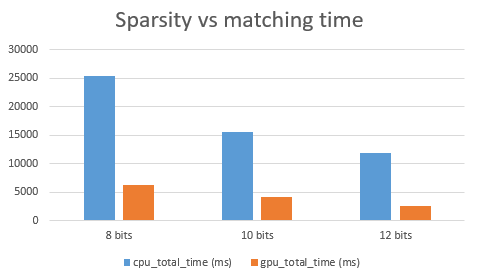
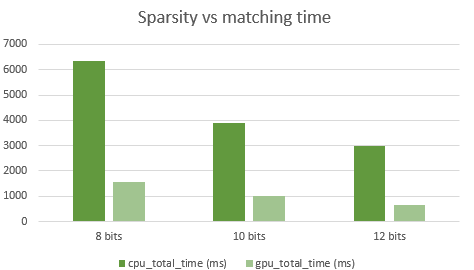
opt

diff --git a/README.md b/README.md
@@ -4,7 +4,7 @@
 	* https://github.com/dengxianga/dengxianga.github.io
 
 (Date: 12/15/2016)
-Updated: 12/18/2016
+Updated: 12/19/2016
 
 # Background
 
@@ -75,7 +75,8 @@ The following are the testing results (dataset: qinghuaxuetang):
 
 * Sparsity of data structure (number of hash bits) vs. total time consumed vs. speed up  
 
-	* Testing on three implementations: original algorithm on CPU, GPU, and slightly improved GPU version that borrows some ideas mentioned in my new draft of paper (not submitted yet).
+	* Testing on three implementations: original algorithm on CPU, GPU, and slightly improved GPU version that aims to enhance the likelihood of finding the 
+true match in the candidate list; such minor improvement borrows some ideas mentioned in my new draft of paper (not submitted yet).
 
 8 bits, 6 tables t| 8 bits, 6 tables
 :-------------------------:  |:-------------------------: 
@@ -138,6 +139,17 @@ Increased sparsity vs. time (three implementations) | Increased sparsity vs incr
 Increased sparsity vs. time (three implementations) | Increased sparsity vs increased speed up on GPU
 :-------------------------:  |:-------------------------: 
 <img src="img/Picture24.png" width="450">  | <img src="img/Picture25.png" width="450"> 
+
+* Memory optimization continued: I further breakdown my buffer data structure into independent buffers instead, here is the most recent improvement:
+
+Increased sparsity vs. time (three implementations) | Increased sparsity vs increased speed up on GPU
+:-------------------------:  |:-------------------------: 
+<img src="img/Picture26.png" width="450">  | <img src="img/Picture27.png" width="450"> 
+	
+* Why CUDA doesn't accelerates a lot (eg. 100 to 1000 times)?
+	* A probable reason is because of the compuation of hamming distance only requires 1 or 2 CPU/GPU cycles, while the time consumed by writing the result to memory 
+	can't really be ignored in this case. In a typical benchmark (1000 features with an average of 20 hamming distance computation per feature), writing results to global memory slows down by 10x or more! (0.037248ms vs 0.003520ms).
+
 	
 # SfM demos on Large dataset
 
